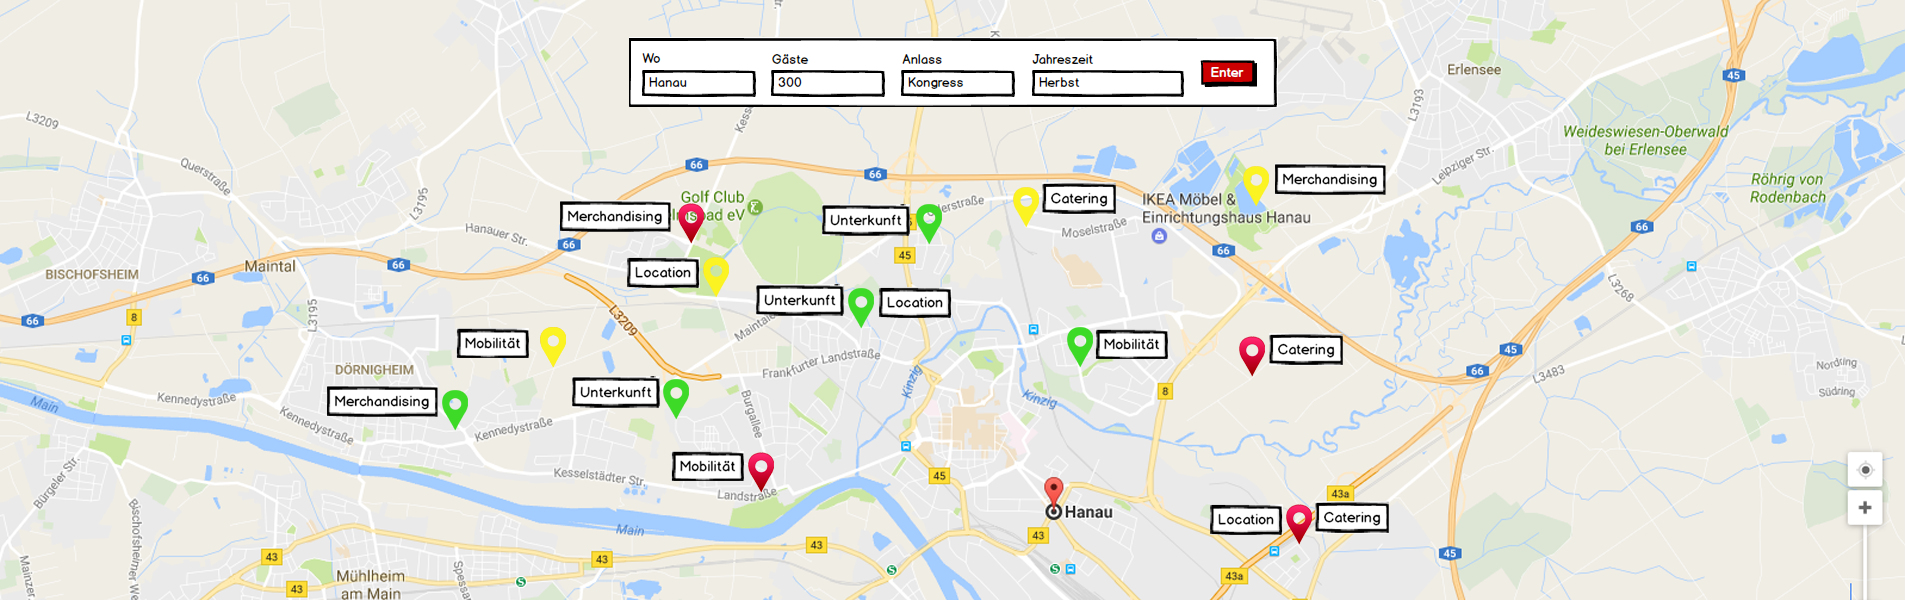
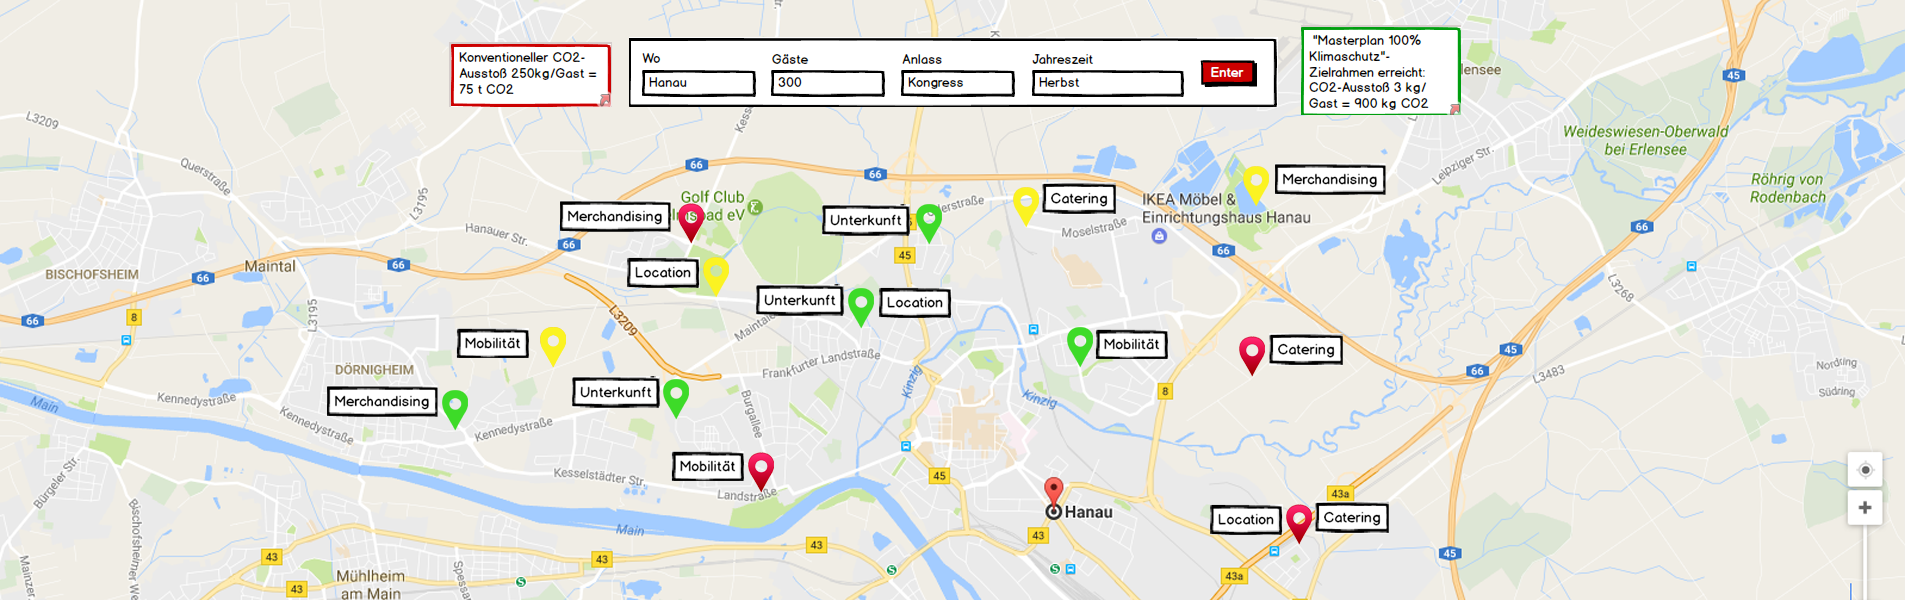
Refactor to new CardHeader, fix styling issues and update maps to have CO2 calc boxes

Changed region(s): [[0.6814, 0.03, 0.7743, 0.21], [0.2168, 0.06, 0.3407, 0.18]]

diff --git a/src/cardHeader.js b/src/cardHeader.js
@@ -1,0 +1,102 @@
+import React, {Component, PropTypes} from 'react';
+
+// Styling
+import { FormField, FormFieldInput, FormFieldLabel } from 'react-foundation-components/lib/forms';
+import { Reveal } from 'react-foundation-components/lib/reveal';
+import { CloseButton } from 'react-foundation-components/lib/close-button';
+import { Callout } from 'react-foundation-components/lib/callout';
+
+
+class CardHeader extends Component {
+
+  state = {
+    showDetail: false,
+  };
+
+  handleShowDetail = () => this.setState({showDetail: true});
+
+  handleHideDetail = () => this.setState({showDetail: false});
+
+  render() {
+    return this.props.label ?
+      this.getLabelMarkup() :
+      this.getTitleMarkup();
+  }
+
+  getTitleMarkup() {
+    const {
+      id,
+      title,
+    } = this.props;
+
+    return (
+      <FormField id={id}>
+        <FormFieldInput type="checkbox" />
+        <FormFieldLabel onClick={this.handleShowDetail}>
+          {title}
+        </FormFieldLabel>
+      </FormField>
+    );
+  }
+
+  getLabelMarkup() {
+    const {
+      id,
+      label,
+    } = this.props;
+
+    const {
+      showDetail,
+    } = this.state;
+
+    return (
+      <FormField id={id}>
+        <FormFieldLabel onClick={this.handleShowDetail}>
+          <i className="fi-info"></i>
+          {label}
+          <Reveal onHide={this.handleHideDetail} show={showDetail}>
+            <CloseButton onClick={this.handleHideDetail} />
+            <h4>Masterplan 100% Klimaschutz Frankfurt</h4>
+            <p>
+            Frankfurt am Main ist ein gefragter Standort für Tagungen und Kongresse. Täglich finden rund 200<br /> Veranstaltungen statt mit mehr als 50 TeilnehmerInnen statt. 2015 waren knapp 4,5<br /> Millionen Tagungsgäste in der Stadt. Damit tagten im Durchschnitt täglich mehr als <br /> 12.100 Menschen in Frankfurt am Main, was in insgesamt über 1,7 Millionen Übernachtungen und <br /> damit rund 4.660 Übernachtungen pro Tag resultierte. <br />
+            </p>
+            <p>
+            Auch aufgrund des hohen Eventaufkommens ist Frankfurt am Main mit einer maximalen <br /> CO2-Belastung konfrontiert durch:
+            </p>
+
+            <ul>
+              <li>Anreisen</li>
+              <li>Stombedarf</li>
+              <li>Müllaufkommen</li>
+              <li>Abreisen</li>
+            </ul>
+
+            <br />
+
+            Um weitere Zerstörung der Umwelt zu verhindern und die Klimaerwärmung auf <br /> maximal 2° Celsius zu begrenzen, darf der CO2-Verbrauch einer Person innerhalb eines Kalenderjahres<br /> 2 Tonnen CO2 nicht überschreiten.<br />
+            <br />
+            Das vom Erdklima tolerierbare Tagespensum CO2 einer Person liegt bei 5,5 kg CO2 pro Tag.<br />
+            <br />
+            2008 wurden in Frankfurt am Main 7,95 Mio. Tonnen CO2 freigesetzt – inklusive Verkehr. <br /> Die Stadt Frankfurt am Main strebt im Rahmen des „Masterplans 100 % Klimaschutz“ in <br /> den Sektoren Strom, Wärme und Verkehr den Energieverbrauch um rund 50 Prozent zu reduzieren, <br /> die verbleibenden 50 Prozent der Endenergie im Jahr 2050 sollen aus städtischen <br /> und regionalen erneuerbaren Energien erzeugt werden.<br />
+
+            <Callout color="success">
+              Eventrechner: <br />
+              <br />
+              Beispiel: Eine Tages-Veranstaltung mit 300 Personen, darf maximal 1.650 kg \&#40;1,65 t&#41; CO2 emittieren.<br />
+              <br />
+              Formel: x &#40;300&#41; Personen&#41; * 5,5 kg &#40;CO2&#41; = z &#40;Tagespensum CO2&#41;
+            </Callout>
+          </Reveal>
+        </FormFieldLabel>
+      </FormField>
+    );
+  }
+}
+
+CardHeader.propTypes = {
+  id: PropTypes.string.isRequired,
+  title: PropTypes.string,
+  label: PropTypes.string,
+};
+
+export default CardHeader;

diff --git a/src/lanes.js b/src/lanes.js
@@ -1,7 +1,6 @@
 import React, {Component, PropTypes} from 'react';
 
 // Styling
-import { FormField, FormFieldInput, FormFieldLabel } from 'react-foundation-components/lib/forms';
 import { Float, ClearFix } from 'react-foundation-components/lib/float';
 
 import './lanes.css';
@@ -10,6 +9,7 @@ import './lanes.css';
 import { Board } from 'react-trello';
 
 const data = require("json!./data.json");
+import CardHeader from './cardHeader';
 import CardContent from './cardContent';
 
 class Lanes extends Component {
@@ -24,13 +24,13 @@ class Lanes extends Component {
     );
   }
 
-  getTitleMarkup(id, title) {
-    return (
-      <FormField id={id}>
-        <FormFieldInput type="checkbox" />
-        <FormFieldLabel>{title}</FormFieldLabel>
-      </FormField>
-    );
+  getCardTitleMarkup(id, title) {
+    return <CardHeader id={id} title={title} />;
+  }
+
+  getCardLabelMarkup(id, card) {
+    const label = [<strong>{card.footprint}</strong>, ' kg CO2/Gast'];
+    return <CardHeader id={id} className="cardLabel" label={label} />;
   }
 
   getContentMarkup(kind, card) {
@@ -48,9 +48,9 @@ class Lanes extends Component {
         const id = `${key}_${i}`;
         const card = {
           id: id,
-          title: this.getTitleMarkup(id, item.title),
+          title: this.getCardTitleMarkup(id, item.title),
           description: this.getContentMarkup(key, item),
-          label: [<strong>{item.footprint}</strong>, ' kg CO2/Gast'],
+          label: this.getCardLabelMarkup(id, item),
           metadata: {cssClassname: `searchresult ${item.color}`},
         };
         lane.cards.push(card);

diff --git a/src/lanes.css b/src/lanes.css
@@ -22,7 +22,7 @@
 }
 
 .searchresult {
-  width: 22rem;
+  width: 100%;
 }
 
 .searchresult header {
@@ -45,16 +45,13 @@
 
 .searchresult header .cardTitle label {
   font-weight: bold;
-  width: 84%;
+  width: 80%;
   float: left;
 }
 
 .searchresult header .cardLabel {
   width: 19%;
-}
-
-.searchresult header .cardLabel strong {
-  font-size: 150%;
+  display: inline-table;
 }
 
 .searchresult.green header {
@@ -76,5 +73,5 @@
 }
 
 .searchresult .resultTags .moreButton {
-  margin: 10px 0 0;
+  margin: 5px;
 }
